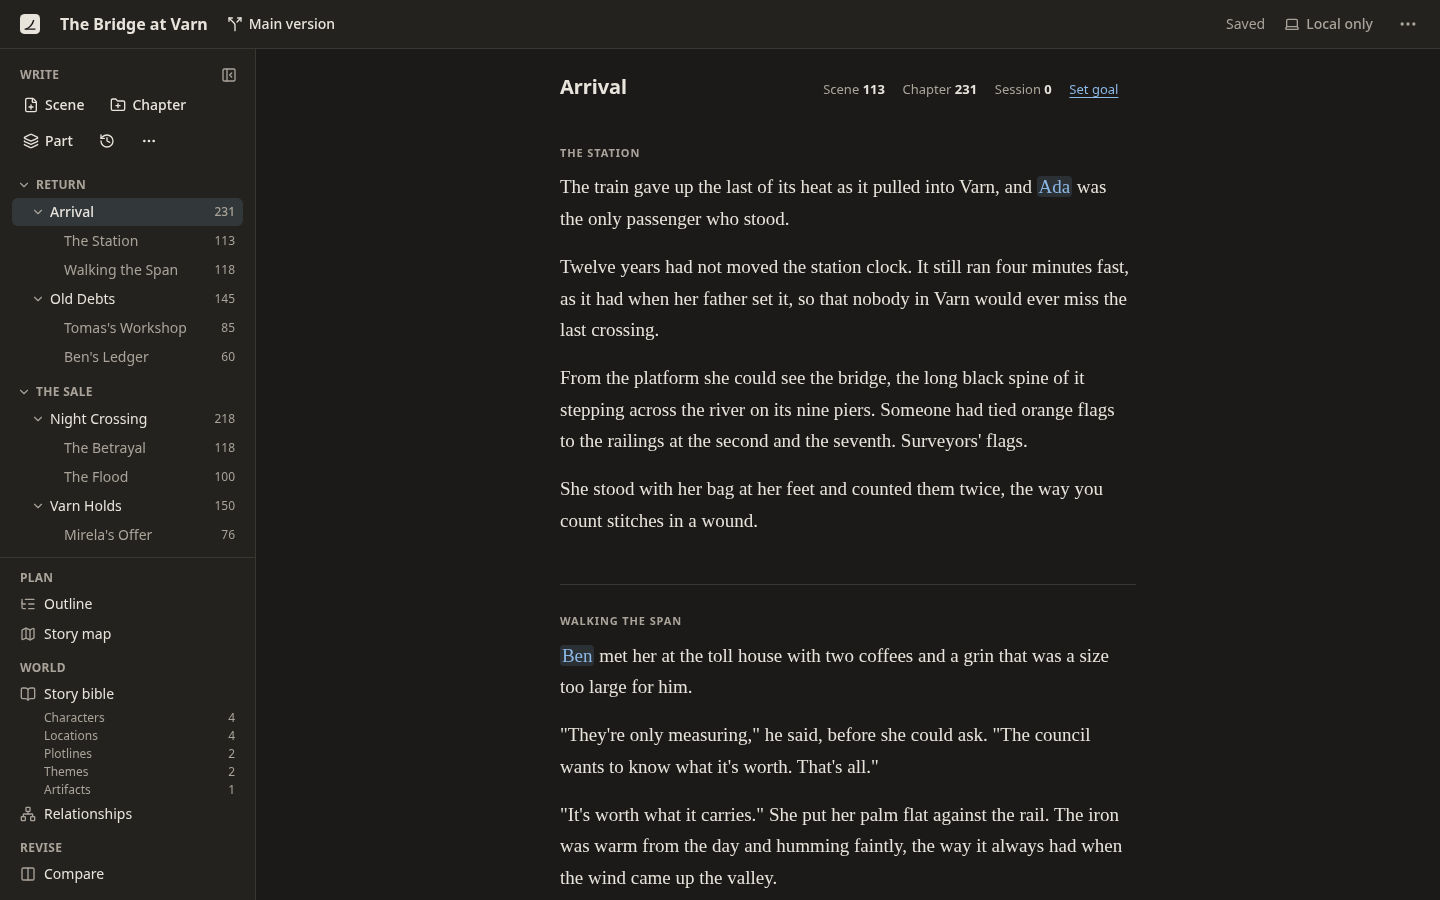
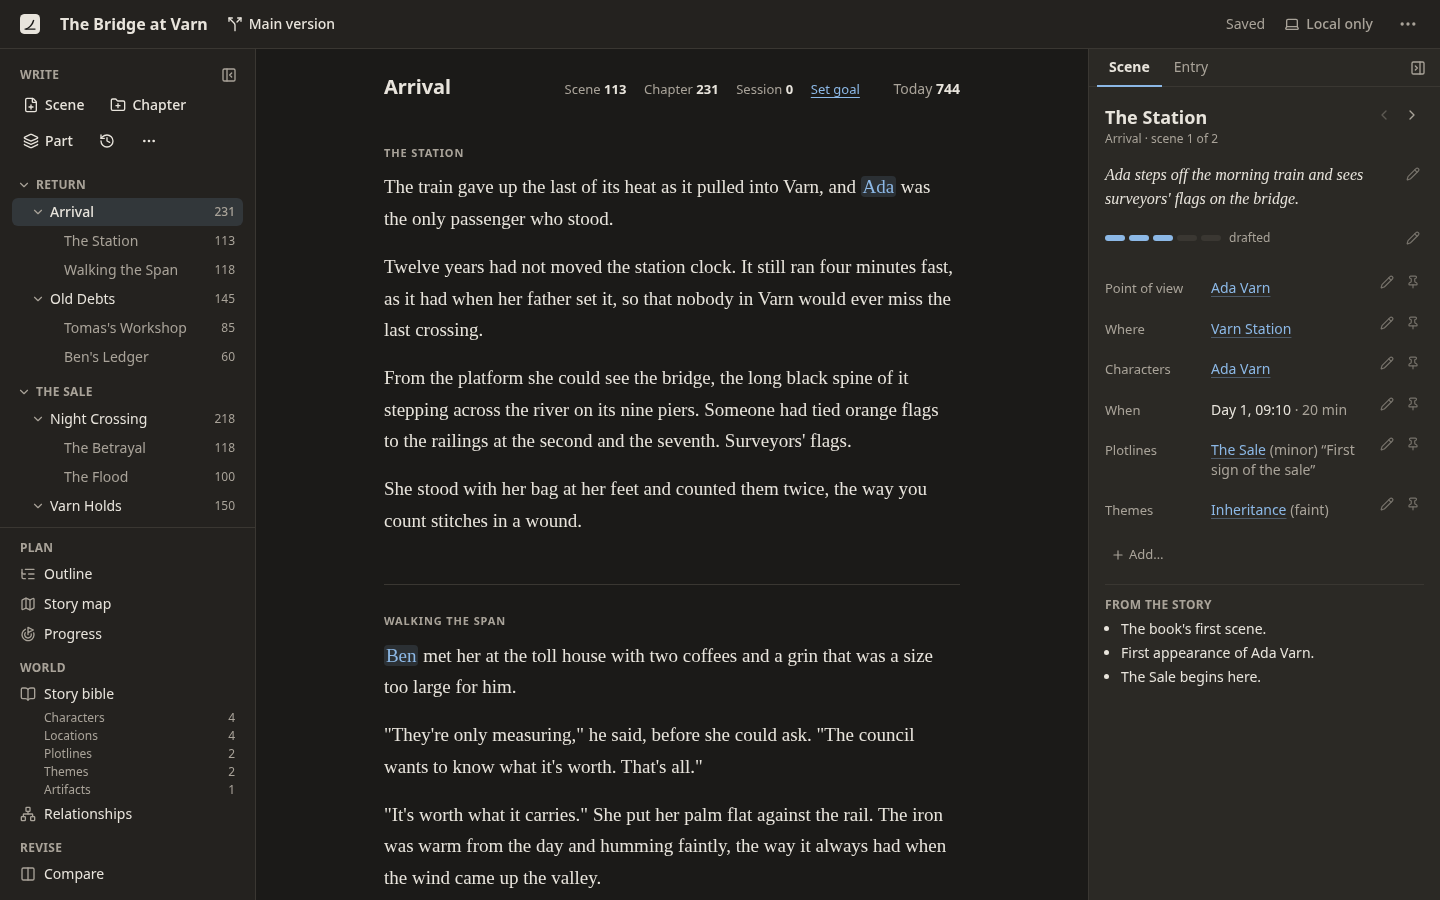
Document the right sidebar; retake the screenshots
USER.md: the right sidebar (Scene card, editing in place, From the
story, pins, the Entry tab, keyboard). README: its feature line and two
new screenshots, the Scene card with details pinned and the Entry tab.
Every screenshot retaken with the sidebar beside the text.

Refs #151

diff --git a/packages/web/e2e/screenshots.ts b/packages/web/e2e/screenshots.ts
@@ -32,6 +32,20 @@ test("the writing view, light and dark, with a mention card", async ({ page, app
   await shoot(page, "writing-dark");
 });
 
+test("the right sidebar: the Scene card with details pinned, and the Entry tab", async ({ page, app }) => {
+  await open(page, app);
+  const card = page.getByRole("region", { name: "Details of “The Station”" });
+  await card.getByRole("button", { name: "Pin point of view under the scene titles" }).click();
+  await card.getByRole("button", { name: "Pin when under the scene titles" }).click();
+  await expect(page.locator(".ghw-pinned")).toHaveCount(2);
+  await card.getByRole("heading", { level: 2 }).click();
+  await shoot(page, "scene-card");
+  await card.getByRole("button", { name: "Ada Varn" }).first().click();
+  await expect(page.getByRole("region", { name: "Ada Varn" })).toBeFocused();
+  await page.getByRole("region", { name: "Ada Varn" }).evaluate((e) => (e as HTMLElement).blur());
+  await shoot(page, "entry-tab");
+});
+
 test("planning views", async ({ page, app }) => {
   const id = await open(page, app);
   for (const [path, name] of [

diff --git a/USER.md b/USER.md
@@ -37,7 +37,14 @@ Choose a chapter or scene in the tree on the left. A chapter opens as one contin
 - **Quick entry:** under **New entry** at the bottom of the `@` list, *New character “Mira”*, *New location “Mira”* and so on create an entry named what you typed and mention it, without leaving the text. Fill in the rest later.
 - **Spell check** knows the story bible's names. Ctrl+. (or a right-click) on an underlined word offers suggestions, **Add to dictionary** (the novel's own `dictionary.txt`) and **Ignore**.
 - **Find** (Ctrl+F) searches the scene, chapter or whole manuscript; **Find and replace** (Ctrl+Shift+H) replaces across all of it, with one Undo.
-- **Scene details** (in the command palette: *Show scene details*) opens a panel beside the text with the scene's point of view, status (idea, outlined, drafted, revised, final), synopsis, characters, locations, plotlines and their beats, themes, tags and when it happens in story time.
+
+### The right sidebar
+
+Beside the text, the right sidebar has two tabs: **Scene** and **Entry**. **Ctrl+Shift+\\** (⌘⇧\\ on a Mac) hides and shows it; hidden, it's a strip of icons at the right edge. Drag its left edge to widen it (or focus that edge and use ← →). **F6** moves between the text and the sidebar, and **Escape** returns to the text with the caret where it was. Its tab, width and whether it's showing are remembered. On a narrow window it opens as a sheet over the text when you ask for it.
+
+- **Scene** is a card for the scene the caret is in: its title and place in the chapter, the synopsis, the status (idea, outlined, drafted, revised, final) as five steps, and a row for each detail it has: point of view, where, characters, when (and for how long) in story time, plotlines with their weight and beat, entries of your own types, themes and tags. Details it hasn't got yet are under **Add…**. Each row's pencil edits it in place, with the people and places pickers (and *New character “…”* to make one as you go); Enter saves a single field and Escape or **Done** returns to the row. ◀ ▶ step through the chapter's scenes without moving the caret. **From the story** lists what the rest of the book says about the scene: the first or last scene, how long after the scene before it comes (or how far back a flashback goes), first appearances, someone back after a long absence, plotlines beginning or ending, relationships starting or ending.
+- **Pins:** the pin on a row puts that detail under every scene's title in the text, as a quiet line (*Ada Varn · Day 1, 09:10 · 20 min*), sidebar showing or not. It's only shown, never written into your scene files.
+- **Entry** shows a story bible entry: choose a name on the Scene card, or *Open entry* on a mention's card. It reads like a character sheet: the summary, fields, relationships at the caret's scene, the scenes it's in (choose one to go there), notes, and *Open the full entry*. **Back** and **Forward** walk the entries you've opened; **Keep this entry here** (the pin) keeps it while you open other names. **Edit details** shows the entry's form in place; after a quick entry, the notice's **Add details** opens it so.
 
 ## Structure: parts, chapters and scenes
 
@@ -156,7 +163,7 @@ Compile the whole book or a range of chapters. Anything you've just typed is sav
 
 ## Keyboard
 
-Everything is reachable from the keyboard. **Ctrl+K** opens the command palette, which can do anything in the app: go to a chapter or scene, open a view, make a checkpoint, sync, change the theme. **Ctrl+/** lists the keyboard shortcuts, and **Ctrl+\\** collapses or expands the sidebar.
+Everything is reachable from the keyboard. **Ctrl+K** opens the command palette, which can do anything in the app: go to a chapter or scene, open a view, make a checkpoint, sync, change the theme. **Ctrl+/** lists the keyboard shortcuts, **Ctrl+\\** collapses or expands the sidebar, and **Ctrl+Shift+\\** hides or shows the right sidebar; **F6** moves between it and the text.
 
 ![The command palette](docs/screenshots/palette.png)
 

diff --git a/README.md b/README.md
@@ -10,13 +10,21 @@
 
 - **A distraction-free editor** for scenes, or a whole chapter as one continuous text while each scene stays its own file. Focus mode, typewriter scrolling, word counts for the scene, chapter and session, and a session goal.
 - **Mentions.** Type `@` and a few letters to mention a character, place or anything else in the story bible. Hover over a mention (or press Alt+Enter) for a card showing who they are and how they relate to everyone else *at that point in the story*.
-- **Quick entry.** Create a new character, location or entry of your own type straight from the `@` menu or the scene details, without leaving the scene.
+- **A sidebar beside the text**: the scene the caret is in as a readable card, each detail edited in place, with what the rest of the book says about it ("8 h after “The Station”", "First appearance of Ben Varn"); details pinned under every scene's title; and any story bible entry as a sheet to read, with Back and Forward. Ctrl+Shift+\\ hides and shows it.
+- **Quick entry.** Create a new character, location or entry of your own type straight from the `@` menu or the Scene card, without leaving the scene.
 - **Spell check** that knows your characters' names, with a per-novel dictionary.
 - **Progress** from the book's own history: words added and cut each day, the length against a target and deadline with a projected finish, a daily goal with a streak, and which chapters and scenes run long or short.
 - **Find and replace** across the scene, the chapter or the whole manuscript, with one Undo for everything.
 - **Autosave that doesn't lose words**, even if the app or the browser crashes, and conflicts shown side by side if a file changes elsewhere.
 
 ![A mention card: Ada Varn, her details, and her relationships at "The Station"](docs/screenshots/mention-card.png)
+
+<table>
+  <tr>
+    <td><img src="docs/screenshots/scene-card.png" alt="The Scene card beside a chapter, with point of view and story time pinned under each scene's title"></td>
+    <td><img src="docs/screenshots/entry-tab.png" alt="The Entry tab: Ada Varn's sheet beside the text"></td>
+  </tr>
+</table>
 
 ![Progress: the book against its target, today's words and streak, and the words per day](docs/screenshots/progress.png)
 
